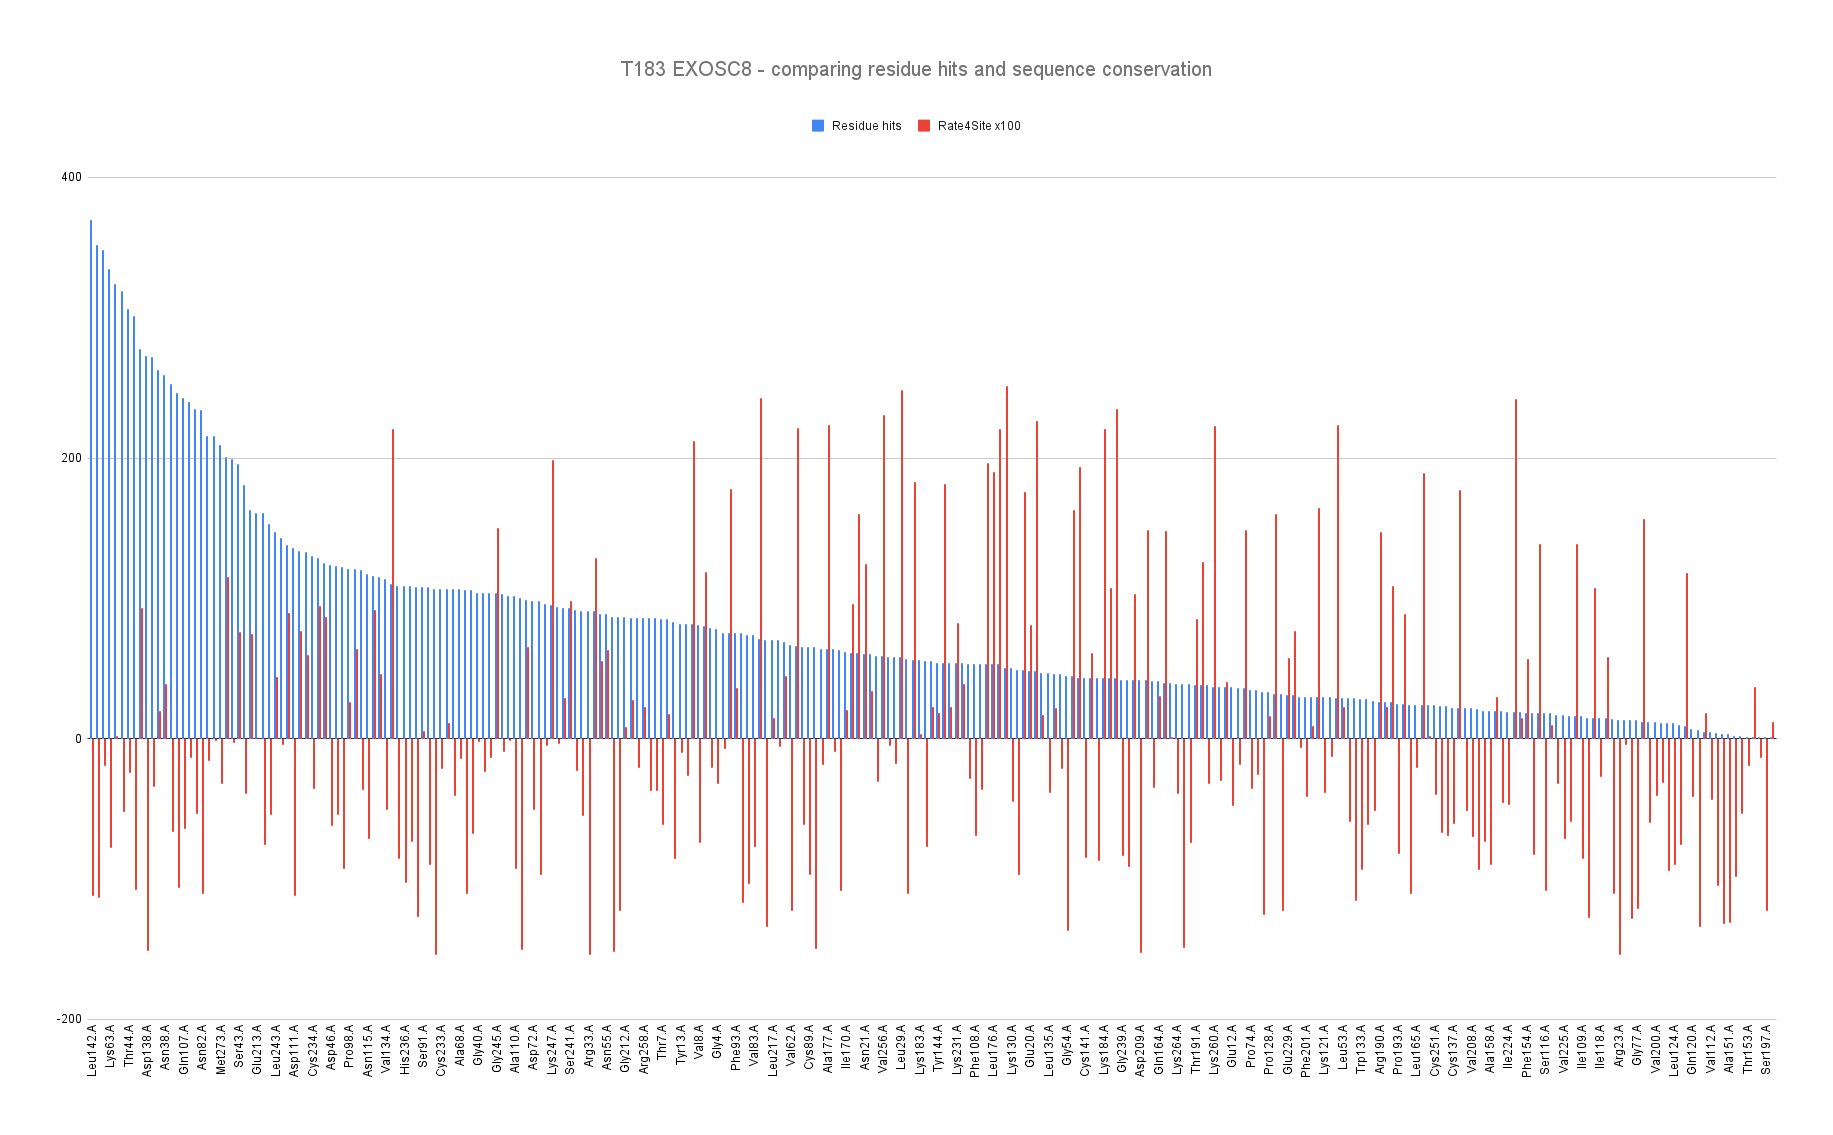
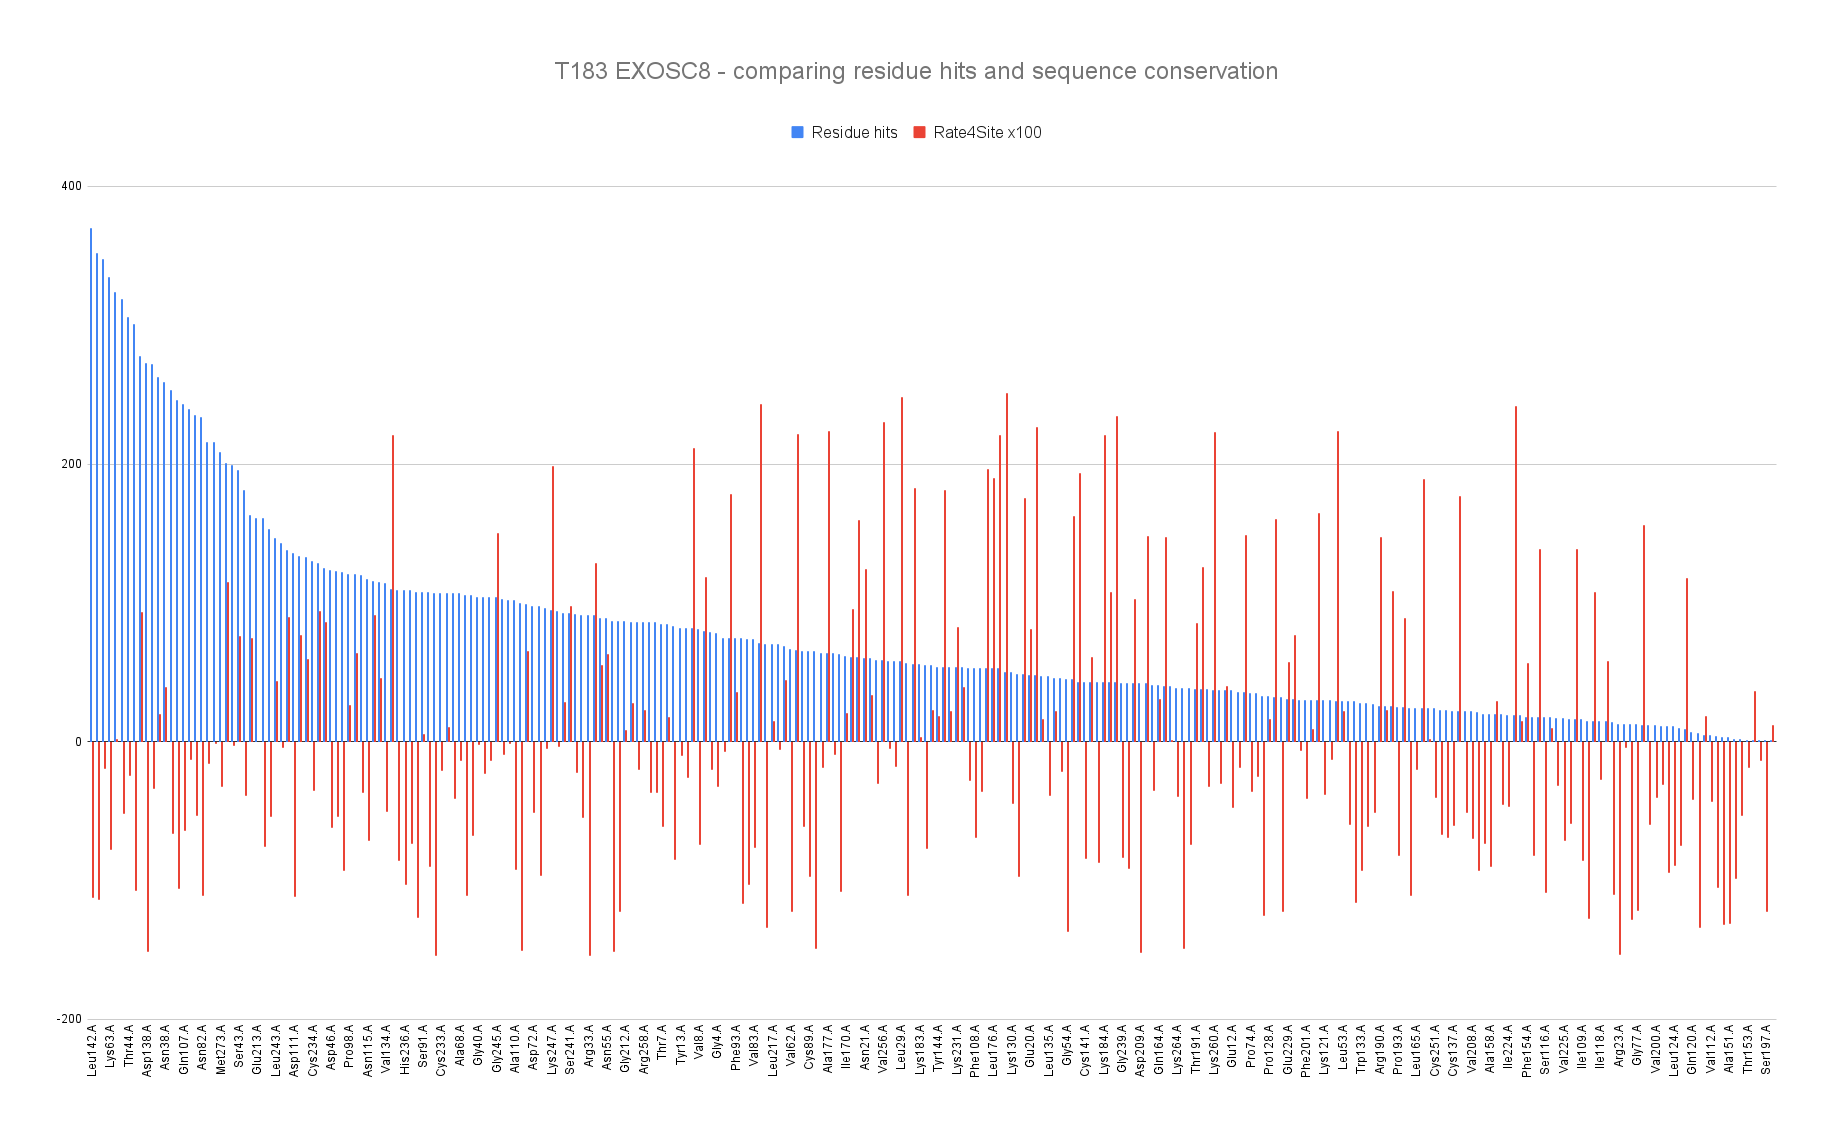
Modified: Plot legends enlarged, typos, feedback section enlarge, target description image now enlarge when clicked

Changed region(s): [[0.3421, 0.0308, 0.6841, 0.1233], [0.9329, 0.6476, 0.964, 0.6784]]

diff --git a/capri-covid/target-descriptions.md b/capri-covid/target-descriptions.md
@@ -9,7 +9,7 @@ image:
 ---
 ### CASP14 target H1103; CAPRI target T181
 
-This is a complex of the SARS-COV2 protein Orf3a (PDB:6xdc) with the Human heme oxygenase HMOX1(PDB:1n3u): A classical docking target, (A1B1 stoichiometry), with known structures of both components.
+This is a complex of the SARS-COV2 protein Orf3a (PDB:[6xdc](https://www.ebi.ac.uk/pdbe/entry/pdb/6xdc)) with the Human heme oxygenase HMOX1 (PDB:[1n3u](https://www.ebi.ac.uk/pdbe/entry/pdb/1n3u)): A classical docking target, (A1B1 stoichiometry), with known structures of both components.
 
 #### Sequence ORF3a
 
@@ -42,7 +42,11 @@ Roland Dunbrack's analysis indicates that NUTF2/NTF2 is a dimer.
 - Previous studies have identified a surface hydrophobic patch centred on Trp7 in rNTF2 (rat protein) (Phe5 in yNTF2: Yeast protein) that interacts with FxFG repeats.   
 - According to the rat structure, the FxFG peptide binds to the subunit interface residues: **Pro75, Pro77 and TRP7** contribute to the hydrophobic depression, whereas in the second chain **Glu35, T115, Cys38, Gln45 and Gln47** contribute.  Not totally sure about alignment with Rat sequence (had to derive the alignment manually).
 
-<center><img src="/images/covid/T182/T182_information.png" width="900"/></center>  
+<center>
+<a href="/images/covid/T182/T182_information.png">
+<img src="/images/covid/T182/T182_information.png" width="900"/>
+</a>
+</center>
 Figure  2 from  [EMBO J](https://www.ncbi.nlm.nih.gov/pmc/articles/PMC126060/). 2002 Jun 17; 21(12): 2843–2853. 
 doi: [10.1093/emboj/cdf305](https://www.embopress.org/doi/full/10.1093/emboj/cdf305)
 
@@ -81,9 +85,13 @@ EXOSC8: Residues to be occluded for docking on this subunit, should be all the r
 
 
 The Figure below (copied from:[https://doi.org/10.1016/j.cell.2006.10.037](https://doi.org/10.1016/j.cell.2006.10.037)) shows the buried areas (interfaces) between the 9 subunits in the reconstituted Exosome.  
-These contacts/ interfaces may (eventually) be used to delineate the available regions of ExosC8 (Rrp43), available for interaction with NSP8. FYI: EXOSC2= Rrp4,EXOSC3=Rrp40, EXOSC4=Rrp41, EXOSC5= Rrp46. 
+These contacts/interfaces may (eventually) be used to delineate the available regions of ExosC8 (Rrp43), available for interaction with NSP8. FYI: EXOSC2= Rrp4,EXOSC3=Rrp40, EXOSC4=Rrp41, EXOSC5= Rrp46. 
 
-<center><img src="/images/covid/T183/EXOSC8.png" width="900"/></center>
+<center>
+<a href="/images/covid/T183/EXOSC8.png">
+<img src="/images/covid/T183/EXOSC8.png" width="900"/>
+</a>
+</center>
 
 #### Sequence SARS-COV-2 NSP8 (198 residues) 
 
@@ -130,4 +138,5 @@ LRNDEHTRRELAKMKQEPVKPEEGRDMANRIGAFGYMECSAKTKDGVREVFEMATRAALQ
 ARRGKKKSGCLVL
 
 <hr>
-<sup><sub>If you have any problem or comment you can contact [Marc Lensink](mailto:marc.lensink@univ-lille.fr) or [Théo Mauri](mailto:theo.mauri@univ-lille.fr)</sub></sup>
+
+For questions, comments of feedback please contact [Marc Lensink](mailto:marc.lensink@univ-lille.fr) or [Théo Mauri](mailto:theo.mauri@univ-lille.fr)

diff --git a/capri-covid/T184/T184-index.md b/capri-covid/T184/T184-index.md
@@ -27,6 +27,7 @@ Only heteromeric contacts were kept. Then, for all models, we counted the number
 
 *Sequence conservation:* Sequence conservation was calculated using [Rate4Site](https://www.tau.ac.il/~itaymay/cp/rate4site.html). Here, a low score means good conservation.
 
+* [Home page](/capri-covid/index)
 * [Target 181](/capri-covid/T181/T181-index)
 * [Target 182](/capri-covid/T182/T182-index)
 * [Target 183](/capri-covid/T183/T183-index) 
@@ -99,4 +100,5 @@ Barplot representing the __residue hits__ (__blue__) and the __sequence conserva
 
 The description of the dowloadable files can be found [here](/capri-covid/downloadable-description)
 <hr>
-<sub>For questions or comments please contact [Marc Lensink](mailto:marc.lensink@univ-lille.fr) or [Théo Mauri](mailto:theo.mauri@univ-lille.fr)</sub>
+
+For questions, comments of feedback please contact [Marc Lensink](mailto:marc.lensink@univ-lille.fr) or [Théo Mauri](mailto:theo.mauri@univ-lille.fr)

diff --git a/capri-covid/T181/T181-index.md b/capri-covid/T181/T181-index.md
@@ -28,6 +28,7 @@ Only heteromeric contacts were kept. Then, for all models, we counted the number
 
 *Sequence conservation:* Sequence conservation was calculated using [Rate4Site](https://www.tau.ac.il/~itaymay/cp/rate4site.html). Here, a low score means good conservation.
 
+* [Home page](/capri-covid/index)
 * [Target 181](/capri-covid/T181/T181-index)
 * [Target 182](/capri-covid/T182/T182-index)
 * [Target 183](/capri-covid/T183/T183-index) 
@@ -102,4 +103,4 @@ Barplot representing the __residue hits__ (__blue__) and the __sequence conserva
 The description of the dowloadable files can be found [here](/capri-covid/downloadable-description)
 <hr>
 
-<sub>For questions or comments please contact [Marc Lensink](mailto:marc.lensink@univ-lille.fr) or [Théo Mauri](mailto:theo.mauri@univ-lille.fr)</sub>
+For questions, comments of feedback please contact [Marc Lensink](mailto:marc.lensink@univ-lille.fr) or [Théo Mauri](mailto:theo.mauri@univ-lille.fr)

diff --git a/capri-covid/T183/T183-index.md b/capri-covid/T183/T183-index.md
@@ -19,6 +19,7 @@ Only heteromeric contacts were kept. Then, for all models, we counted the number
 
 *Sequence conservation:* Sequence conservation was calculated using [Rate4Site](https://www.tau.ac.il/~itaymay/cp/rate4site.html). Here, a low score means good conservation.
 
+* [Home page](/capri-covid/index)
 * [Target 181](/capri-covid/T181/T181-index)
 * [Target 182](/capri-covid/T182/T182-index)
 * [Target 183](/capri-covid/T183/T183-index) 
@@ -90,4 +91,5 @@ Barplot representing the __residue hits__ (__blue__) and the __sequence conserva
 
 The description of the dowloadable files can be found [here](/capri-covid/downloadable-description)
 <hr>
-<sub>For questions or comments please contact [Marc Lensink](mailto:marc.lensink@univ-lille.fr) or [Théo Mauri](mailto:theo.mauri@univ-lille.fr)</sub>
+
+For questions, comments of feedback please contact[Marc Lensink](mailto:marc.lensink@univ-lille.fr) or [Théo Mauri](mailto:theo.mauri@univ-lille.fr)

diff --git a/capri-covid/T182/T182-index.md b/capri-covid/T182/T182-index.md
@@ -19,6 +19,7 @@ Only heteromeric contacts were kept. Then, for all models, we counted the number
 
 *Sequence conservation:* Sequence conservation was calculated using [Rate4Site](https://www.tau.ac.il/~itaymay/cp/rate4site.html). Here, a low score means good conservation.
 
+* [Home page](/capri-covid/index)
 * [Target 181](/capri-covid/T181/T181-index)
 * [Target 182](/capri-covid/T182/T182-index)
 * [Target 183](/capri-covid/T183/T183-index) 
@@ -98,4 +99,5 @@ Barplot representing the __residue hits__ (__blue__) and the __sequence conserva
 
 The description of dowloadable files can be found [here](/capri-covid/downloadable-description)
 <hr>
-<sub>For questions or comments please contact [Marc Lensink](mailto:marc.lensink@univ-lille.fr) or [Théo Mauri](mailto:theo.mauri@univ-lille.fr)</sub>
+
+For questions, comments of feedback please contact [Marc Lensink](mailto:marc.lensink@univ-lille.fr) or [Théo Mauri](mailto:theo.mauri@univ-lille.fr)

diff --git a/capri-covid/index.md b/capri-covid/index.md
@@ -97,4 +97,5 @@ of the assembly (e.g. a model of acceptable quality or better). Therefore, the r
 The description of target dowloadables can be found [here](/capri-covid/downloadable-description)
 
 <hr>
-<sub>For questions or comments please contact [Marc Lensink](mailto:marc.lensink@univ-lille.fr) or [Théo Mauri](mailto:theo.mauri@univ-lille.fr)</sub>
+
+For questions, comments of feedback please contact [Marc Lensink](mailto:marc.lensink@univ-lille.fr) or [Théo Mauri](mailto:theo.mauri@univ-lille.fr)

diff --git a/capri-covid/downloadable-description.md b/capri-covid/downloadable-description.md
@@ -47,4 +47,5 @@ image:
 
 
 <hr>
-<sup><sub>For questions or comments please contact [Marc Lensink](mailto:marc.lensink@univ-lille.fr) or [Théo Mauri](mailto:theo.mauri@univ-lille.fr)</sub></sup>
+
+For questions, comments or feedback please contact [Marc Lensink](mailto:marc.lensink@univ-lille.fr) or [Théo Mauri](mailto:theo.mauri@univ-lille.fr)
